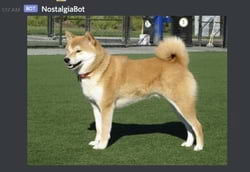
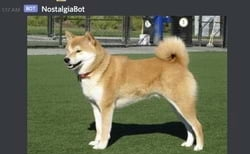
Resized images for better fit on projects page.

diff --git a/src/Projects/Projects.js b/src/Projects/Projects.js
@@ -30,7 +30,7 @@ export default function Projects() {
     {
       name: 'Nostalgia Bot',
       thumbnail: nostalgiabot,
-      shortDesc: 'A Python-based Discord bot',
+      shortDesc: 'A Python-based Discord bot with custom responses',
       repoUrl: 'https://github.com/howe-jm/nostalgia-bot',
       techUsed: 'Python, Linux',
       desc: `Just to try my hand at python and programming responsive Discord bots, I decided to recreate the SlackBot functionality found in Thinkful's Slack server! While mostly for fun, I think this project is an ample demonstration of my ability to quickly learn and adapt to different languages and development settings. In addition to creating the bot, I also deployed it to a live Linux VPS for 24/7 up-time, using tools like supervisord to daemonize the bot for auto-restarting.`,
